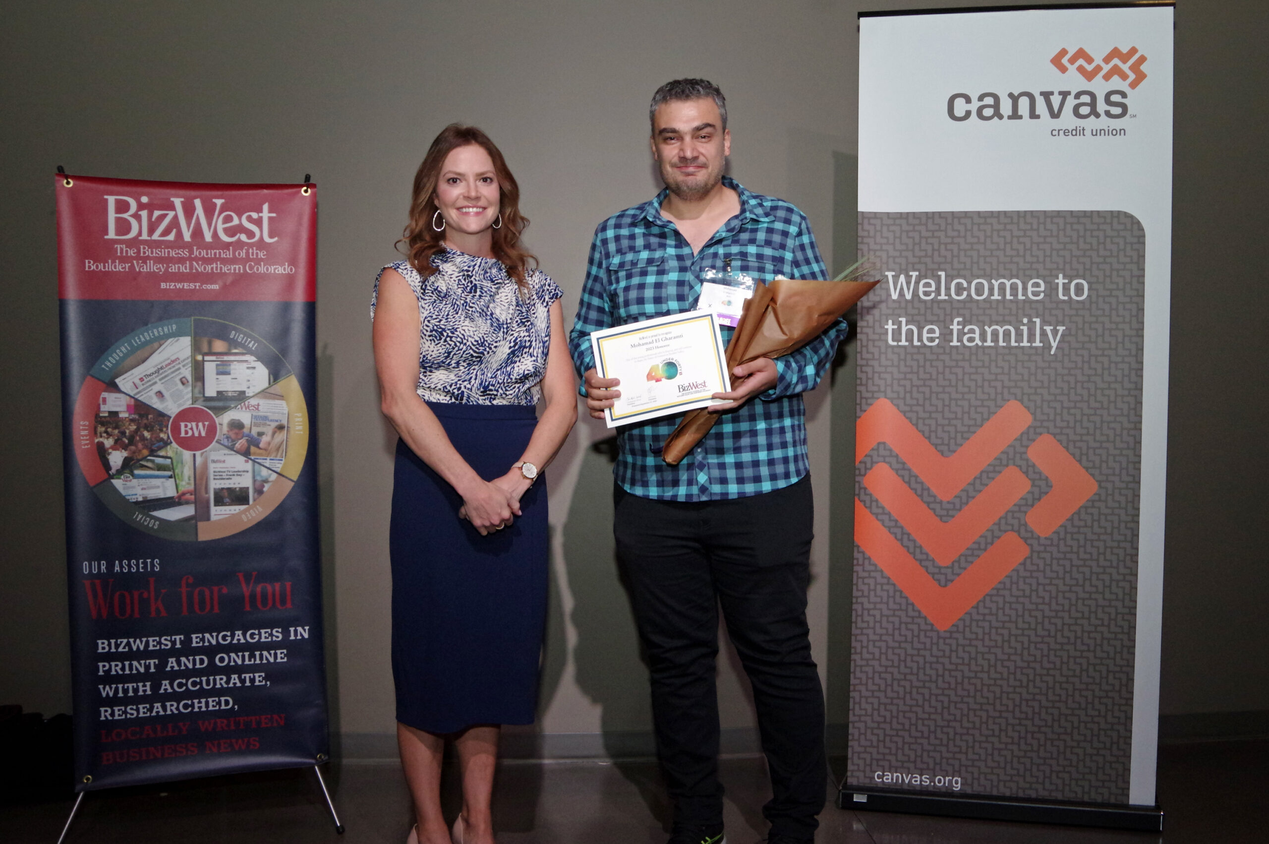
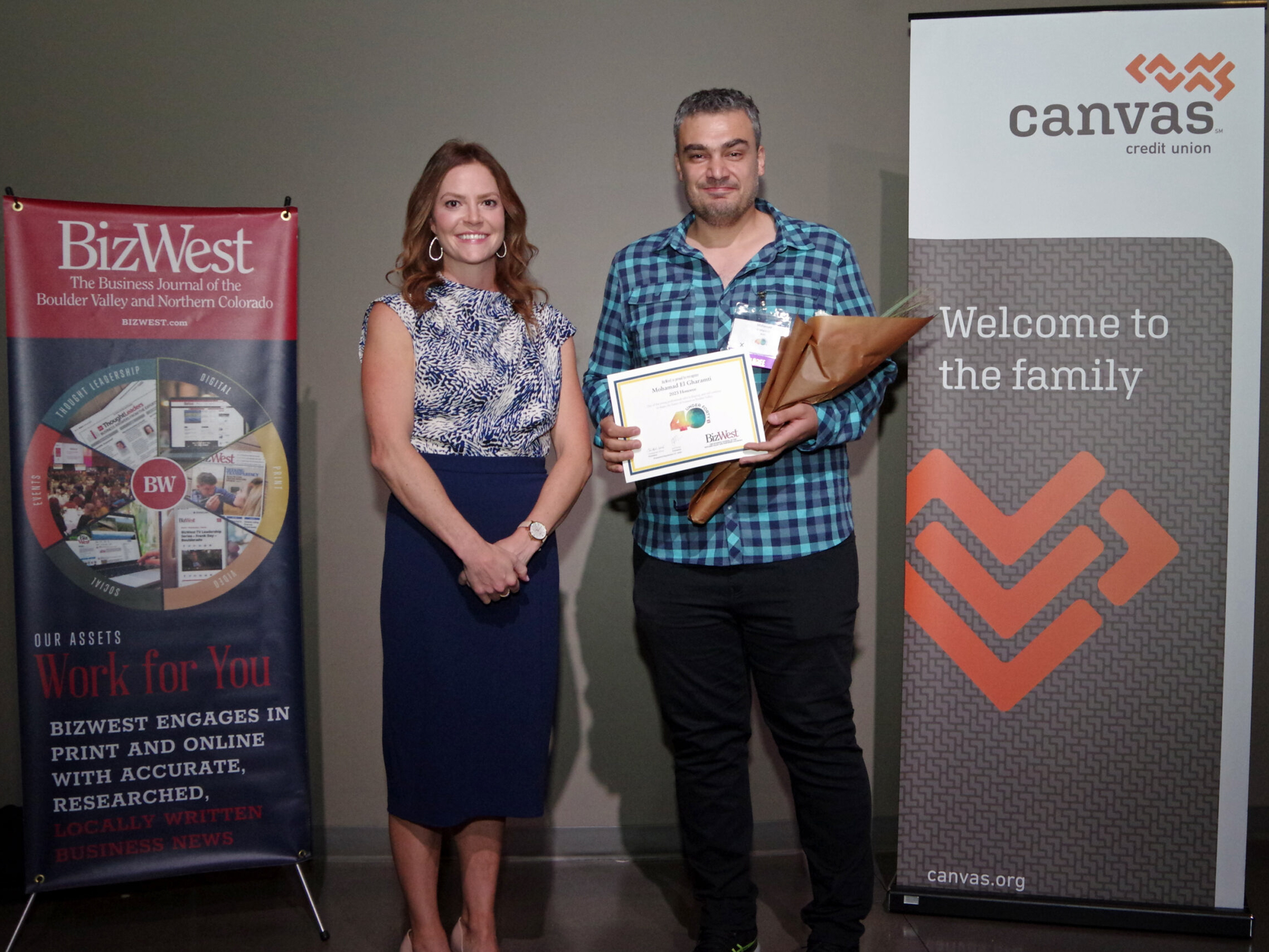
Update aspect ratio of BizWest photo

diff --git a/content/research/bizwest-40-under-forty.md b/content/research/bizwest-40-under-forty.md
@@ -1,6 +1,6 @@
 ---
-title: "DART Scientist Moha Gharamti Named to BizWest 40 Under Forty"
-date: 2020-10-16T14:00:00-07:00
+title: "Moha Gharamti Named to Boulder 40 Under Forty"
+date: 2023-09-27T14:00:00-07:00
 type: research
 image: "images/featured-articles/moha-gharamti.jpg"
 hero: "images/hero/bizwest.jpg"
@@ -10,7 +10,7 @@ figures:
    Grace Place in Berthoud, Colorado on September 27, 2023."
 
 category: ["AWARDS"]
-weight: 30
+weight: 9
 ---
 
 NCAR Scientist Moha Gharamti, PhD, was recognized as one of the 40 Under Forty
